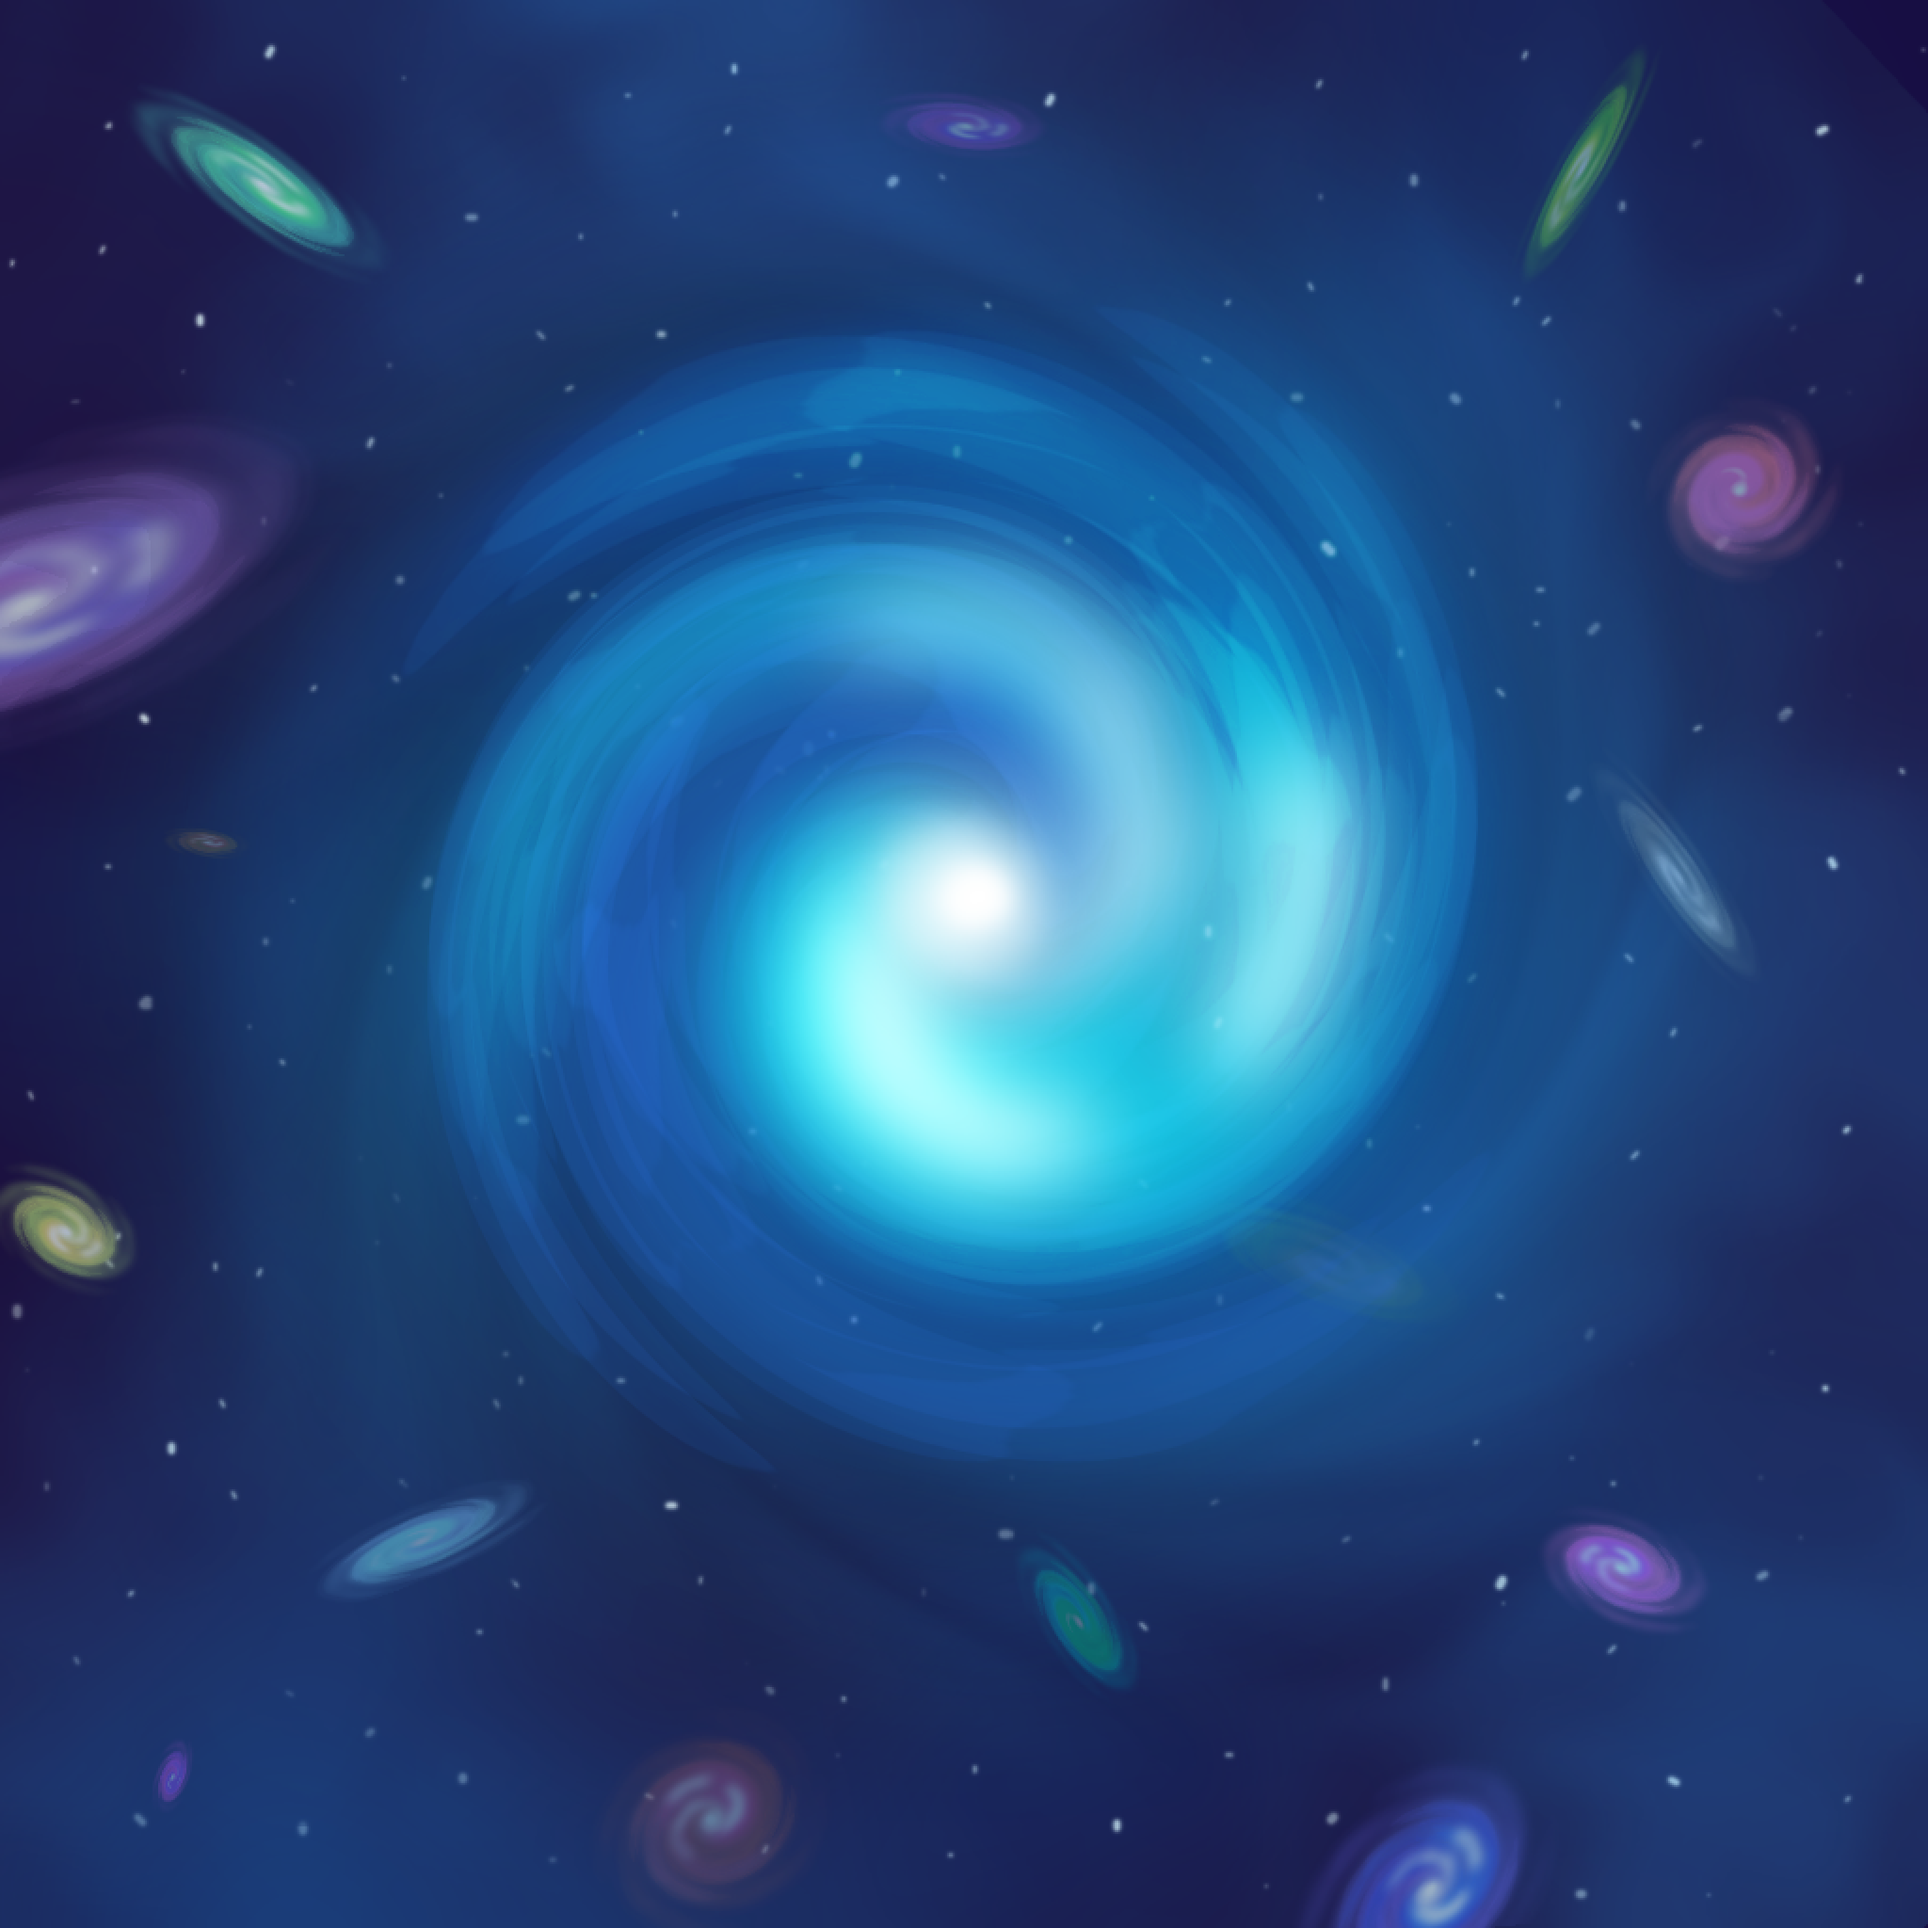
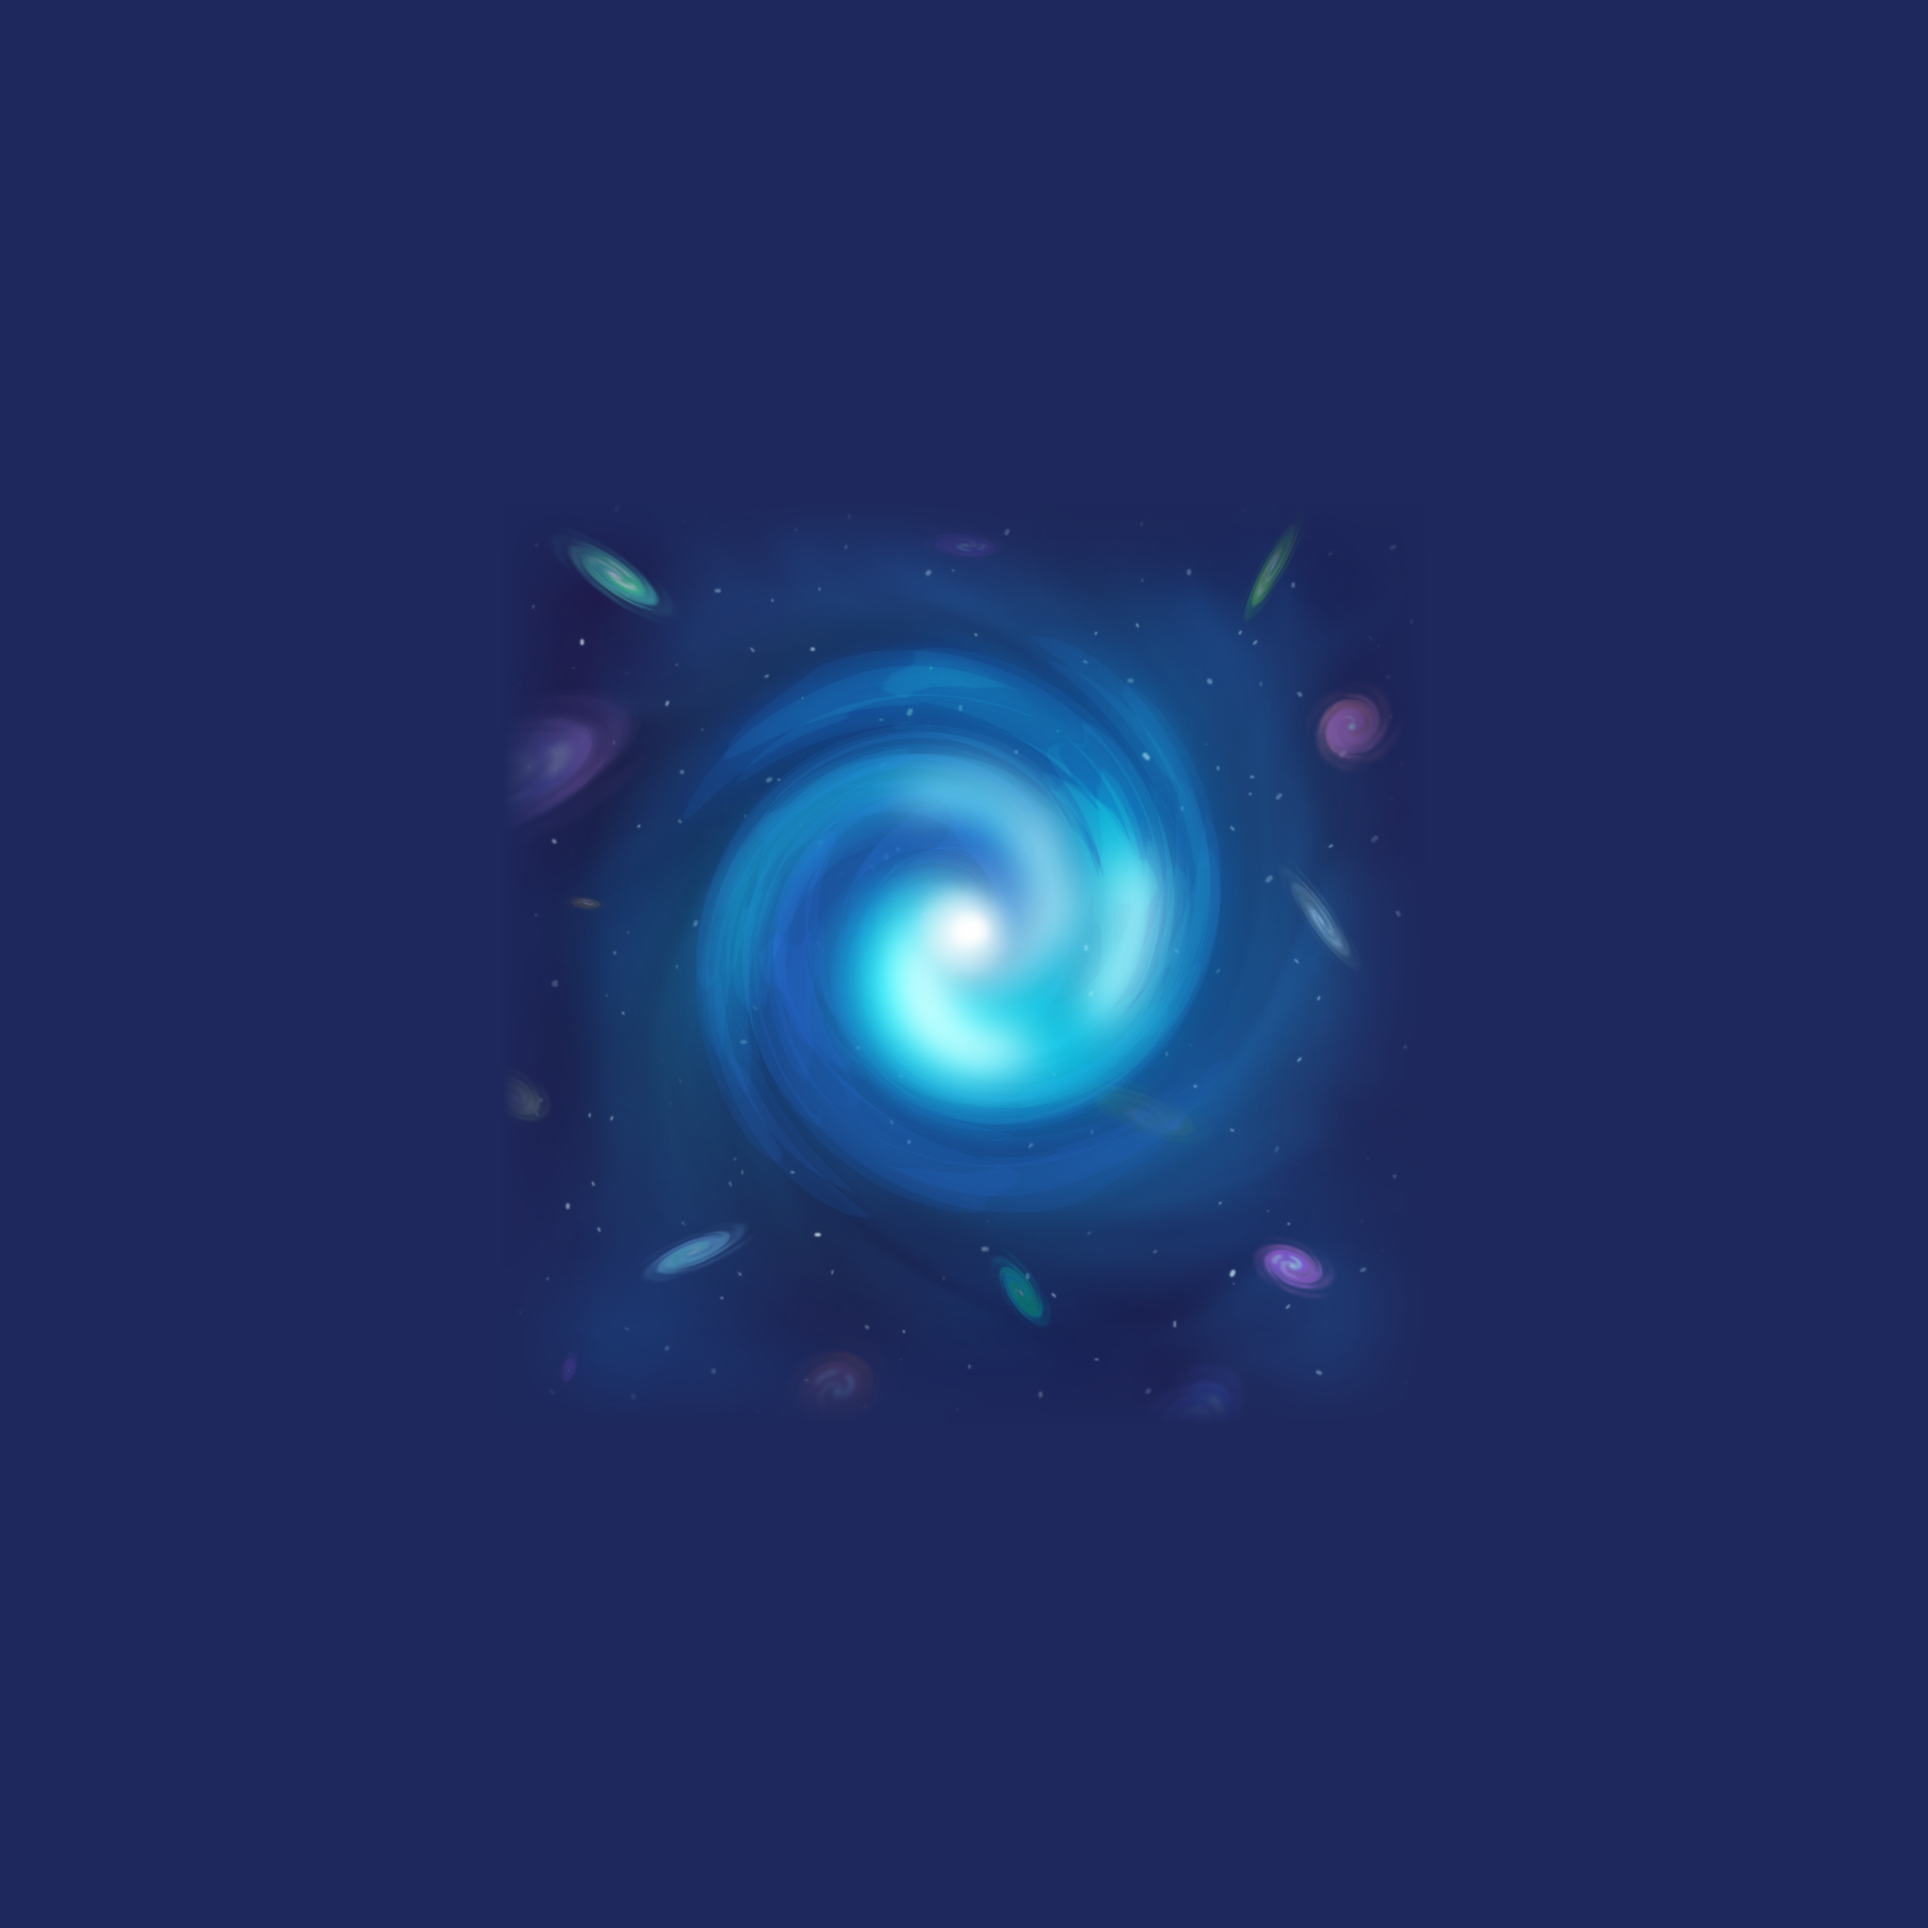
-Changed space background to be a smaller size
-Added loading screen image.

diff --git a/Steve/src/com/steve/stages/Loading.java b/Steve/src/com/steve/stages/Loading.java
@@ -1,14 +1,26 @@
 package com.steve.stages;
+import com.badlogic.gdx.Gdx;
+import com.badlogic.gdx.graphics.Texture;
+import com.badlogic.gdx.graphics.g2d.Sprite;
+import com.badlogic.gdx.graphics.g2d.TextureRegion;
 import com.steve.SteveDriver;
 import com.steve.TextButton;
 import com.steve.commands.WrapUpLoading;
 
 public class Loading {
+	Texture loading;
+	Sprite loadingSprite;
+	
 	boolean threadFinished;
 	
 	TextButton startButton;
 	
 	public Loading() {
+		loading = new Texture(Gdx.files.internal("data/loading.png"));
+		loadingSprite = new Sprite(new TextureRegion(loading, 0f, 0f, 1f, 1f));
+		loadingSprite.scale(-0.2f);
+		loadingSprite.setPosition(loadingSprite.getWidth() / 2 * -1, loadingSprite.getHeight() / 2 * -1);
+		
 		threadFinished = false;
 		
 		startButton = new TextButton(-5f * SteveDriver.TEXTURE_SIZE,
@@ -29,6 +41,7 @@ public class Loading {
 		SteveDriver.batch.setProjectionMatrix(SteveDriver.guiCamera.combined);
 		
 		SteveDriver.batch.begin();	
+		loadingSprite.draw(SteveDriver.batch);
 		startButton.render();
 		SteveDriver.batch.end();
 		
